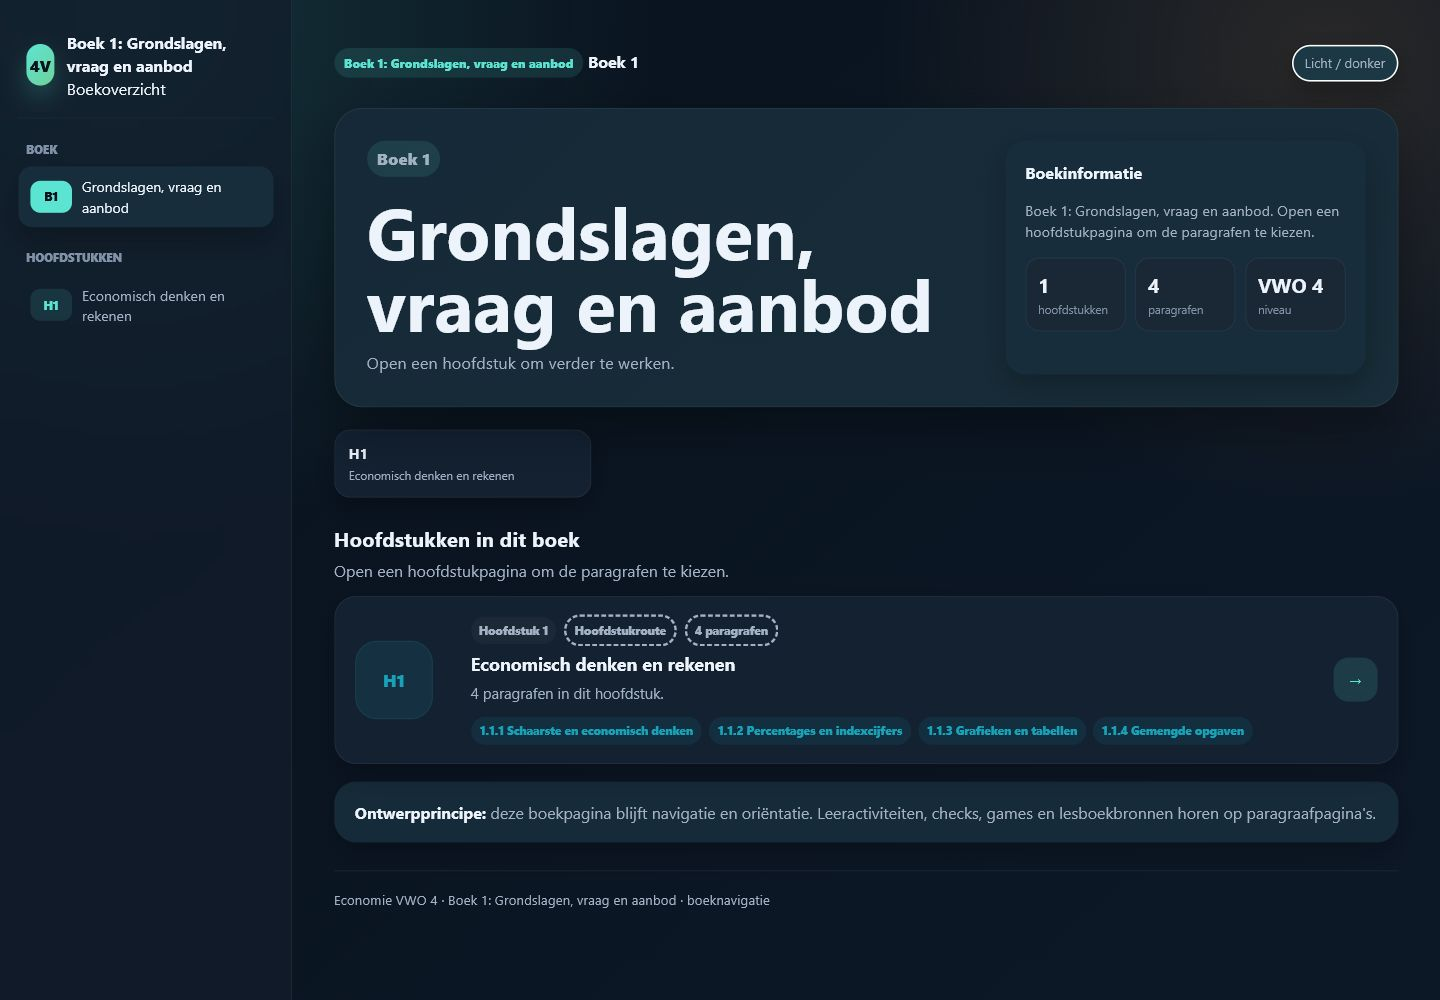
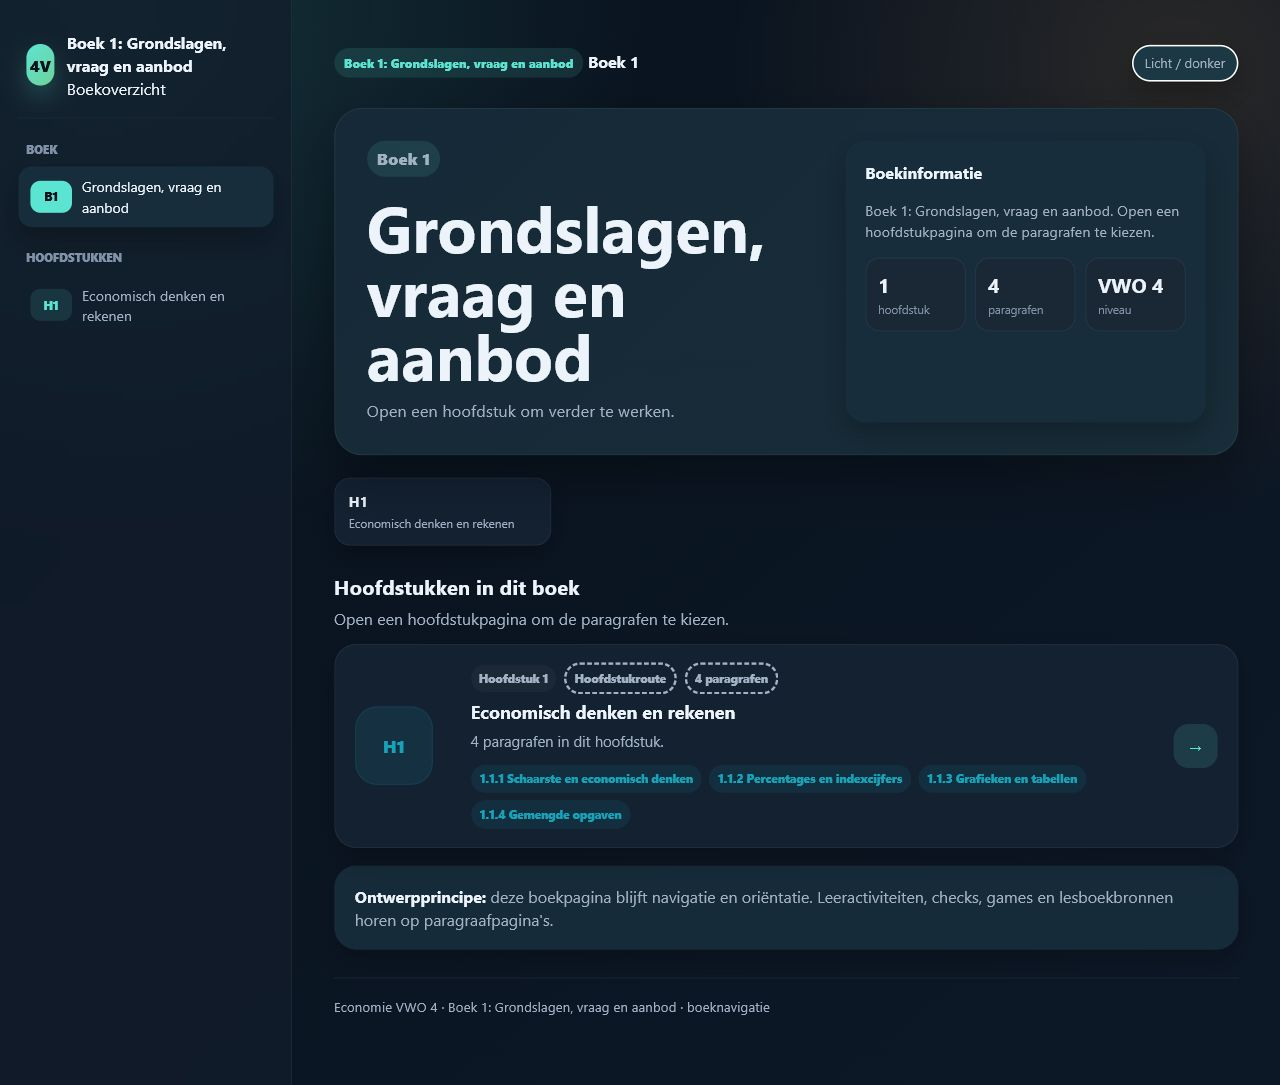
Fix book landing singular stat label

diff --git a/build-scripts/platform/build-landing-page.js b/build-scripts/platform/build-landing-page.js
@@ -101,6 +101,10 @@ function escapeHtml(value) {
     .replace(/'/g, "&#39;");
 }
 
+function pluralNl(count, singular, plural) {
+  return Number(count) === 1 ? singular : plural;
+}
+
 function domainToken(domain) {
   return DOMAIN_SHARED_TOKEN[domain] || "economisch";
 }
@@ -959,7 +963,7 @@ ${sidebarHTML}
             <h2>Boekinformatie</h2>
             <p>${escapeHtml(CONFIG.displayLabel)}. Open een hoofdstukpagina om de paragrafen te kiezen.</p>
             <div class="stats">
-              <div class="stat"><strong>${visibleChapters.length}</strong><span>hoofdstukken</span></div>
+              <div class="stat"><strong>${visibleChapters.length}</strong><span>${pluralNl(visibleChapters.length, "hoofdstuk", "hoofdstukken")}</span></div>
               <div class="stat"><strong>${visibleParagraphCount}</strong><span>paragrafen</span></div>
               <div class="stat"><strong>VWO 4</strong><span>niveau</span></div>
             </div>

diff --git a/scripts/tests/build-landing-page.test.js b/scripts/tests/build-landing-page.test.js
@@ -394,6 +394,8 @@ describe('paragraph landing V2 prototype port', () => {
         expect(bookChapterCards(bookHtml)).toEqual([
             { id: '1.1', href: '1.1%20Hoofdstuk%20Test/index.html' },
         ]);
+        expect(bookHtml).toContain('<strong>1</strong><span>hoofdstuk</span>');
+        expect(bookHtml).not.toContain('<strong>1</strong><span>hoofdstukken</span>');
         expect(bookHtml).toContain('Hoofdstuk 1');
         expect(bookHtml).toContain('Hoofdstukroute');
         expect(bookHtml).not.toMatch(/<span class="[^"]*chapter-card-domain[^"]*">Rekenen<\/span>/);

diff --git a/build-scripts/platform/check-book-landing-v2.js b/build-scripts/platform/check-book-landing-v2.js
@@ -124,6 +124,10 @@ function verifyBookHtml(html, context, expectedCards) {
   requireIncludes(html, REQUIRED_HTML_MARKERS, context);
   requireExcludes(html, FORBIDDEN_HTML_MARKERS, context);
 
+  if (html.includes("<strong>1</strong><span>hoofdstukken</span>")) {
+    fail(`${context} must render singular stat label as 1 hoofdstuk`);
+  }
+
   if (/<span class="[^"]*chapter-card-domain[^"]*">/.test(html)) {
     fail(`${context} must not render visible chapter domain/aspect labels`);
   }
